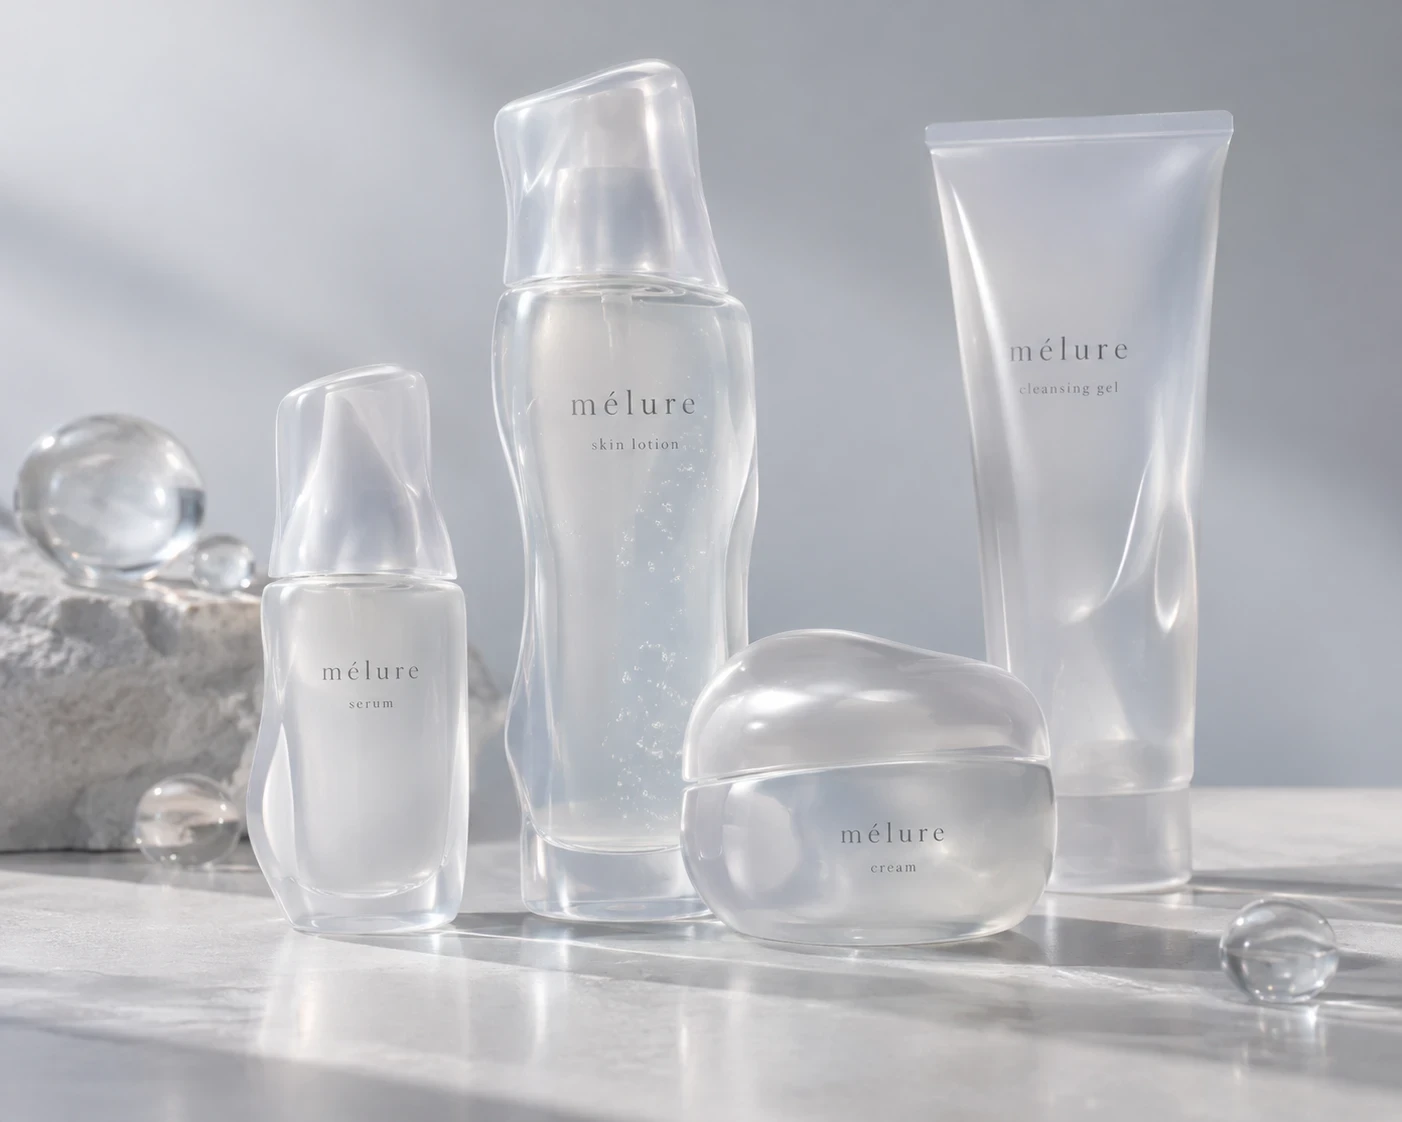
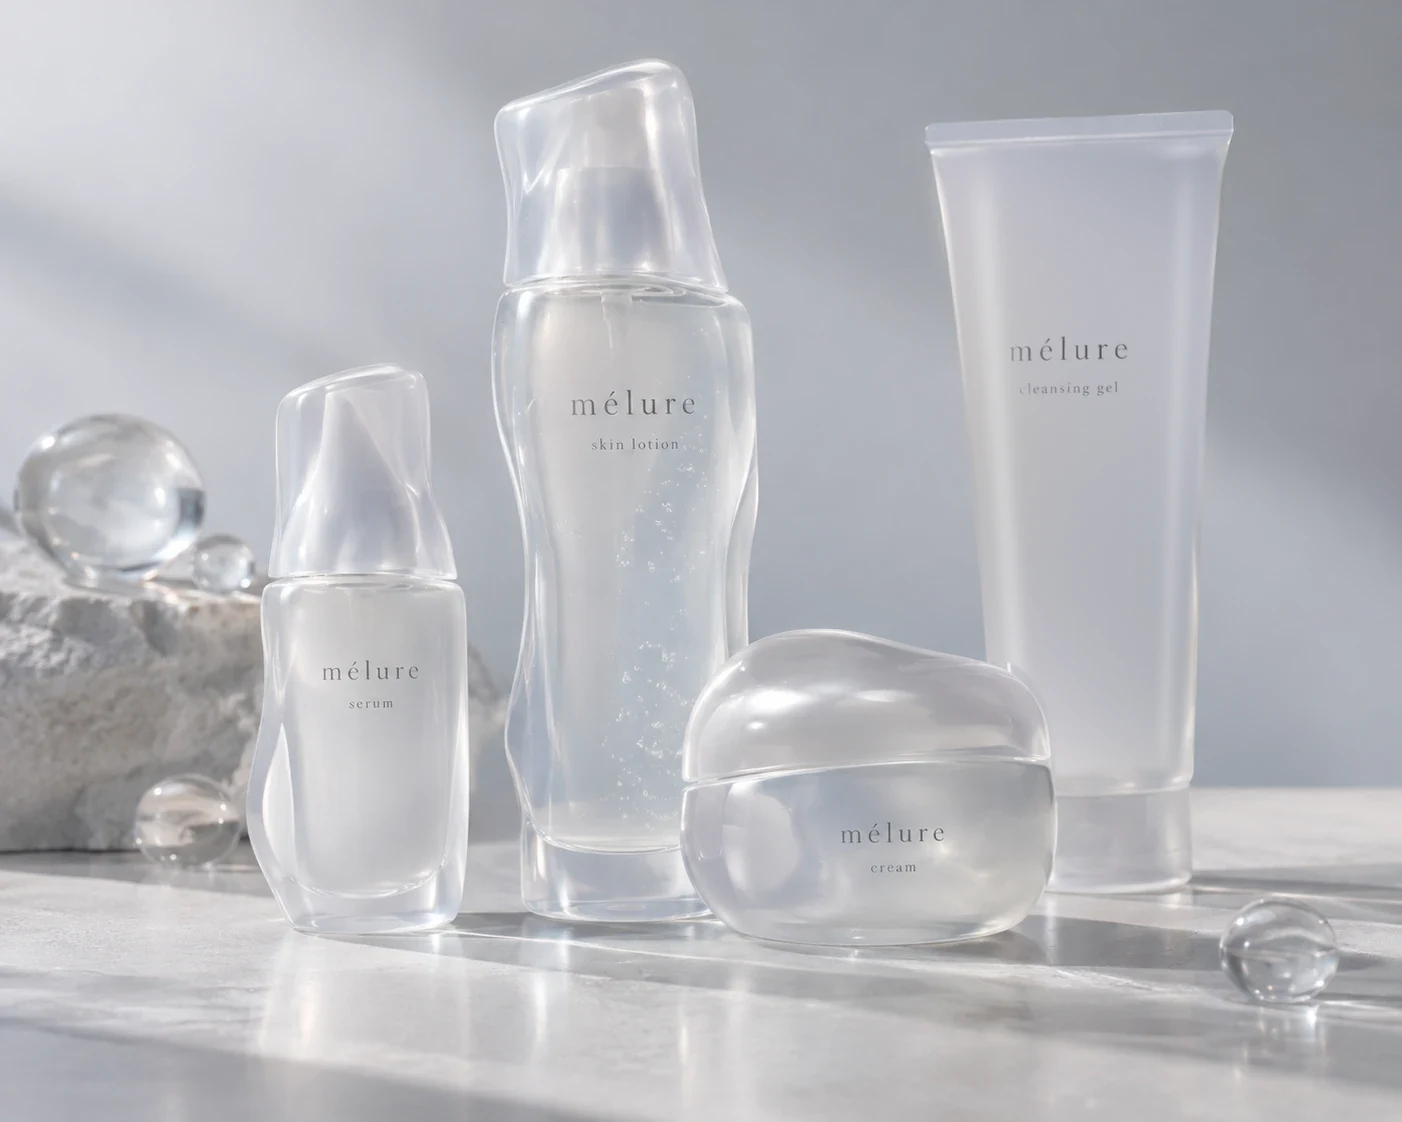
集合写真の洗顔ジェルを、へこみのないまっすぐなチューブに直す

diff --git a/a/index.html b/a/index.html
@@ -142,7 +142,7 @@ footer .logo{display:block;color:var(--ink);margin-bottom:12px}
 <main id="top">
   <section class="hero">
     <div class="hero-in">
-      <figure><img src="../images/hero.webp" width="1402" height="1122" alt="mélure の4つの容器。美容液、化粧水、クリーム、洗顔ジェルが光の中に並ぶ"></figure>
+      <figure><img src="../images/hero.webp?v=2" width="1402" height="1122" alt="mélure の4つの容器。美容液、化粧水、クリーム、洗顔ジェルが光の中に並ぶ"></figure>
       <div class="copy">
         <h1>澄んでいく、<br>という手入れ。</h1>
         <p>水のように、静かに。<br>肌にふれる四つのかたち。</p>
@@ -173,7 +173,7 @@ footer .logo{display:block;color:var(--ink);margin-bottom:12px}
     </div>
 
     <figure class="band">
-      <img src="../images/hero.webp" alt="" loading="lazy">
+      <img src="../images/hero.webp?v=2" alt="" loading="lazy">
       <figcaption>光が通るものを、<br>洗面台に。</figcaption>
     </figure>
 

diff --git a/b/index.html b/b/index.html
@@ -134,7 +134,7 @@ footer{padding-bottom:96px}
 
 <main id="top">
   <section class="hero">
-    <img src="../images/hero.webp" width="1402" height="1122" alt="mélure の4つの容器。美容液、化粧水、クリーム、洗顔ジェルが並ぶ">
+    <img src="../images/hero.webp?v=2" width="1402" height="1122" alt="mélure の4つの容器。美容液、化粧水、クリーム、洗顔ジェルが並ぶ">
     <div class="hero-copy">
       <p class="badge"><b>NEW</b>4つではじめる、夜のスキンケア</p>
       <p class="word" aria-hidden="true">mélure</p>
@@ -213,7 +213,7 @@ footer{padding-bottom:96px}
 
   <section class="set" id="set">
     <div class="wrap in">
-      <figure><img src="../images/hero.webp" alt="mélure の4商品がそろった写真" loading="lazy"></figure>
+      <figure><img src="../images/hero.webp?v=2" alt="mélure の4商品がそろった写真" loading="lazy"></figure>
       <div>
         <p class="en">first set</p>
         <h2>はじめての、4点セット。</h2>
